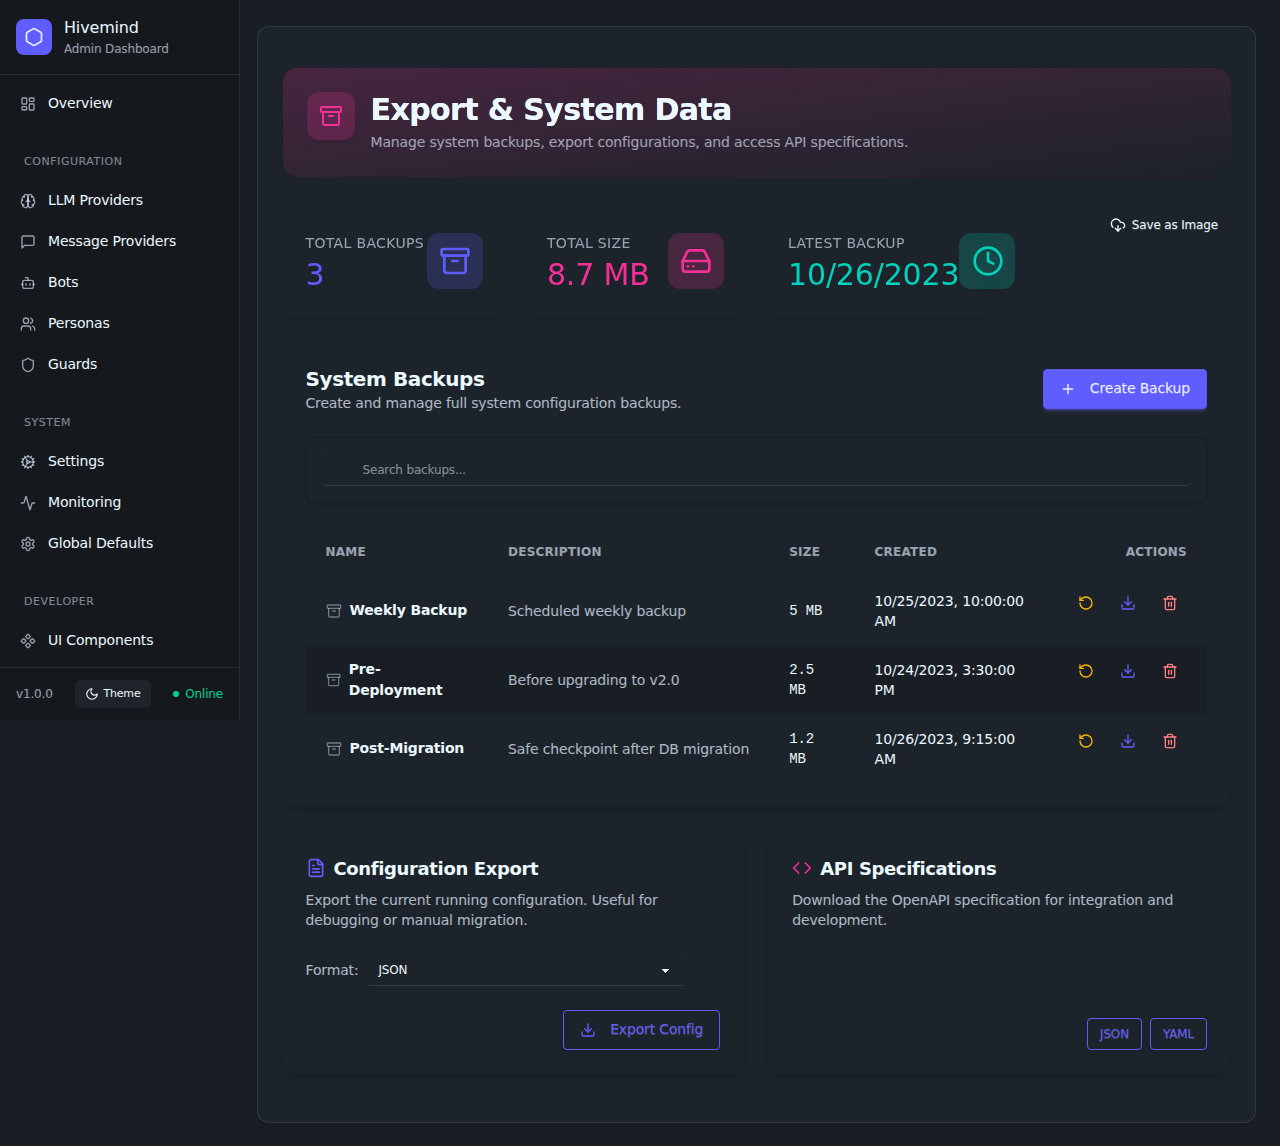
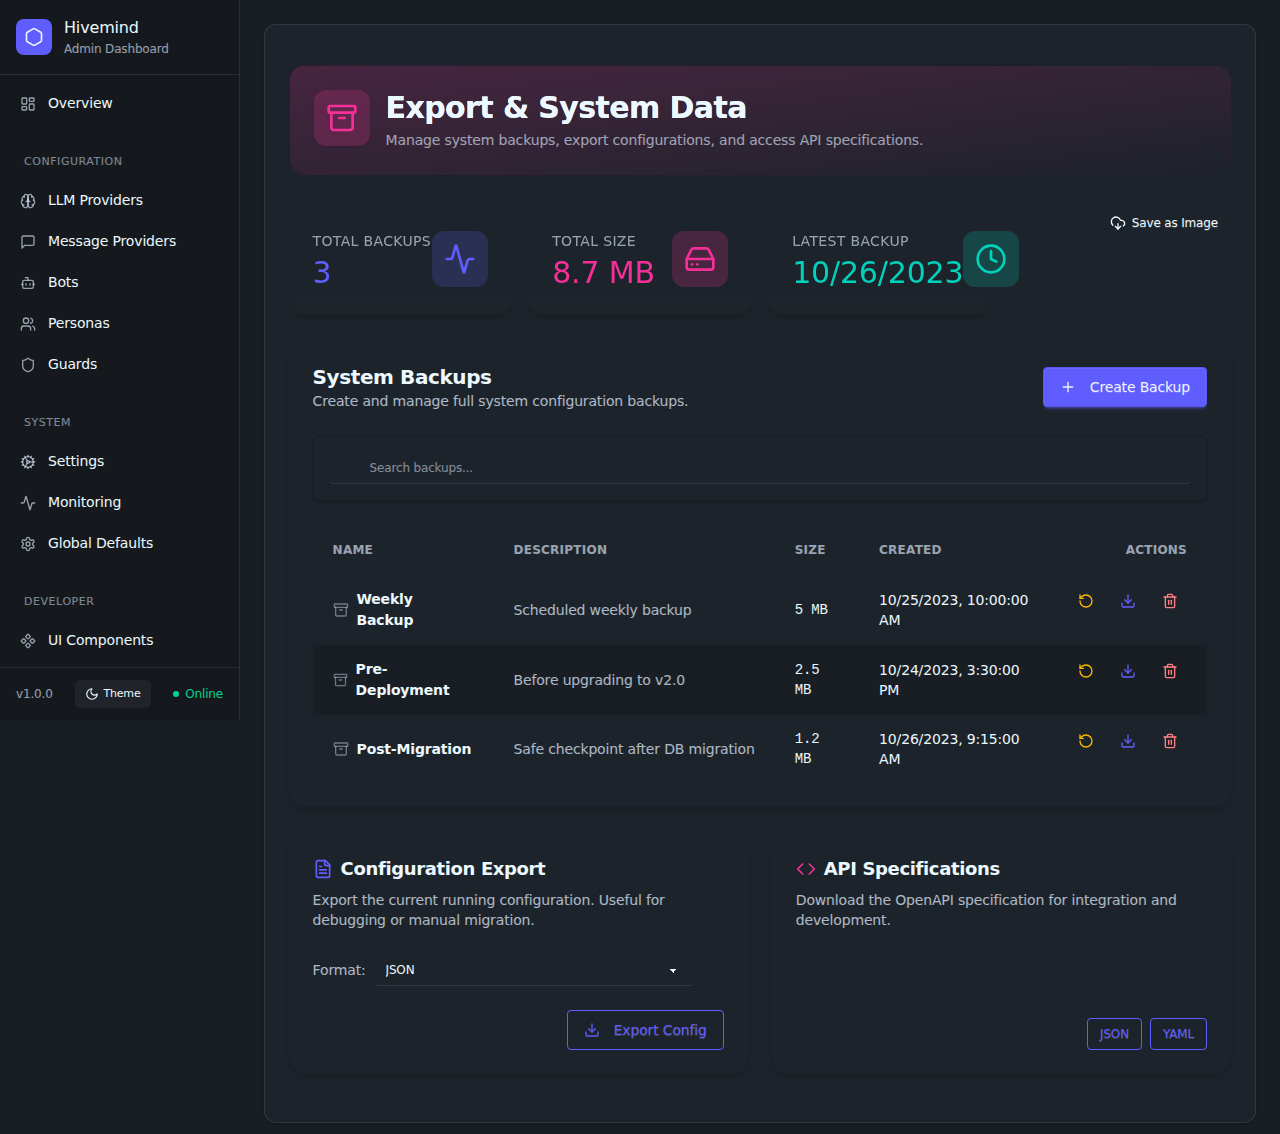
Rebase resolve (#1526)

diff --git a/src/client/src/pages/ExportPage.tsx b/src/client/src/pages/ExportPage.tsx
@@ -13,15 +13,7 @@ import {
   Clock,
   DownloadCloud as DownloadIcon
 } from 'lucide-react';
-import { Alert } from '../components/DaisyUI/Alert';
-import ToastNotification from '../components/DaisyUI/ToastNotification';
-import Modal from '../components/DaisyUI/Modal';
-import Button from '../components/DaisyUI/Button';
-import Input from '../components/DaisyUI/Input';
-import Textarea from '../components/DaisyUI/Textarea';
-import PageHeader from '../components/DaisyUI/PageHeader';
-import EmptyState from '../components/DaisyUI/EmptyState';
-import StatsCards from '../components/DaisyUI/StatsCards';
+import { Alert, ToastNotification, Modal, Button, Input, Textarea, PageHeader, EmptyState, StatsCards } from '../components/DaisyUI';
 import SearchFilterBar from '../components/SearchFilterBar';
 import { apiService } from '../services/api';
 
@@ -205,21 +197,21 @@ const ExportPage: React.FC = () => {
         id: 'total-backups',
         title: 'Total Backups',
         value: totalBackups,
-        icon: <Archive className="w-8 h-8" />,
+        icon: 'archive',
         color: 'primary' as const,
       },
       {
         id: 'total-size',
         title: 'Total Size',
         value: formatBytes(totalSize),
-        icon: <HardDrive className="w-8 h-8" />,
+        icon: 'storage',
         color: 'secondary' as const,
       },
       {
         id: 'last-backup',
         title: 'Latest Backup',
         value: lastBackup,
-        icon: <Clock className="w-8 h-8" />,
+        icon: 'clock',
         color: 'accent' as const,
       },
     ];
@@ -268,7 +260,7 @@ const ExportPage: React.FC = () => {
       <PageHeader
         title="Export & System Data"
         description="Manage system backups, export configurations, and access API specifications."
-        icon={<Archive className="w-6 h-6" />}
+        icon={<Archive className="w-8 h-8" />}
         gradient="secondary"
       />
 
@@ -286,12 +278,12 @@ const ExportPage: React.FC = () => {
       {/* System Backups Section */}
       <div className="card bg-base-100 shadow-xl">
         <div className="card-body">
-          <div className="flex flex-col sm:flex-row justify-between items-center mb-4 gap-4">
+          <div className="flex flex-col md:flex-row justify-between items-center mb-4 gap-4">
             <div>
               <h2 className="card-title text-xl">System Backups</h2>
               <p className="text-sm text-base-content/70">Create and manage full system configuration backups.</p>
             </div>
-            <div className="flex items-center gap-2 w-full sm:w-auto">
+            <div className="flex items-center gap-2 w-full md:w-auto">
               <Button
                 variant="primary"
                 onClick={() => setCreateModalOpen(true)}
